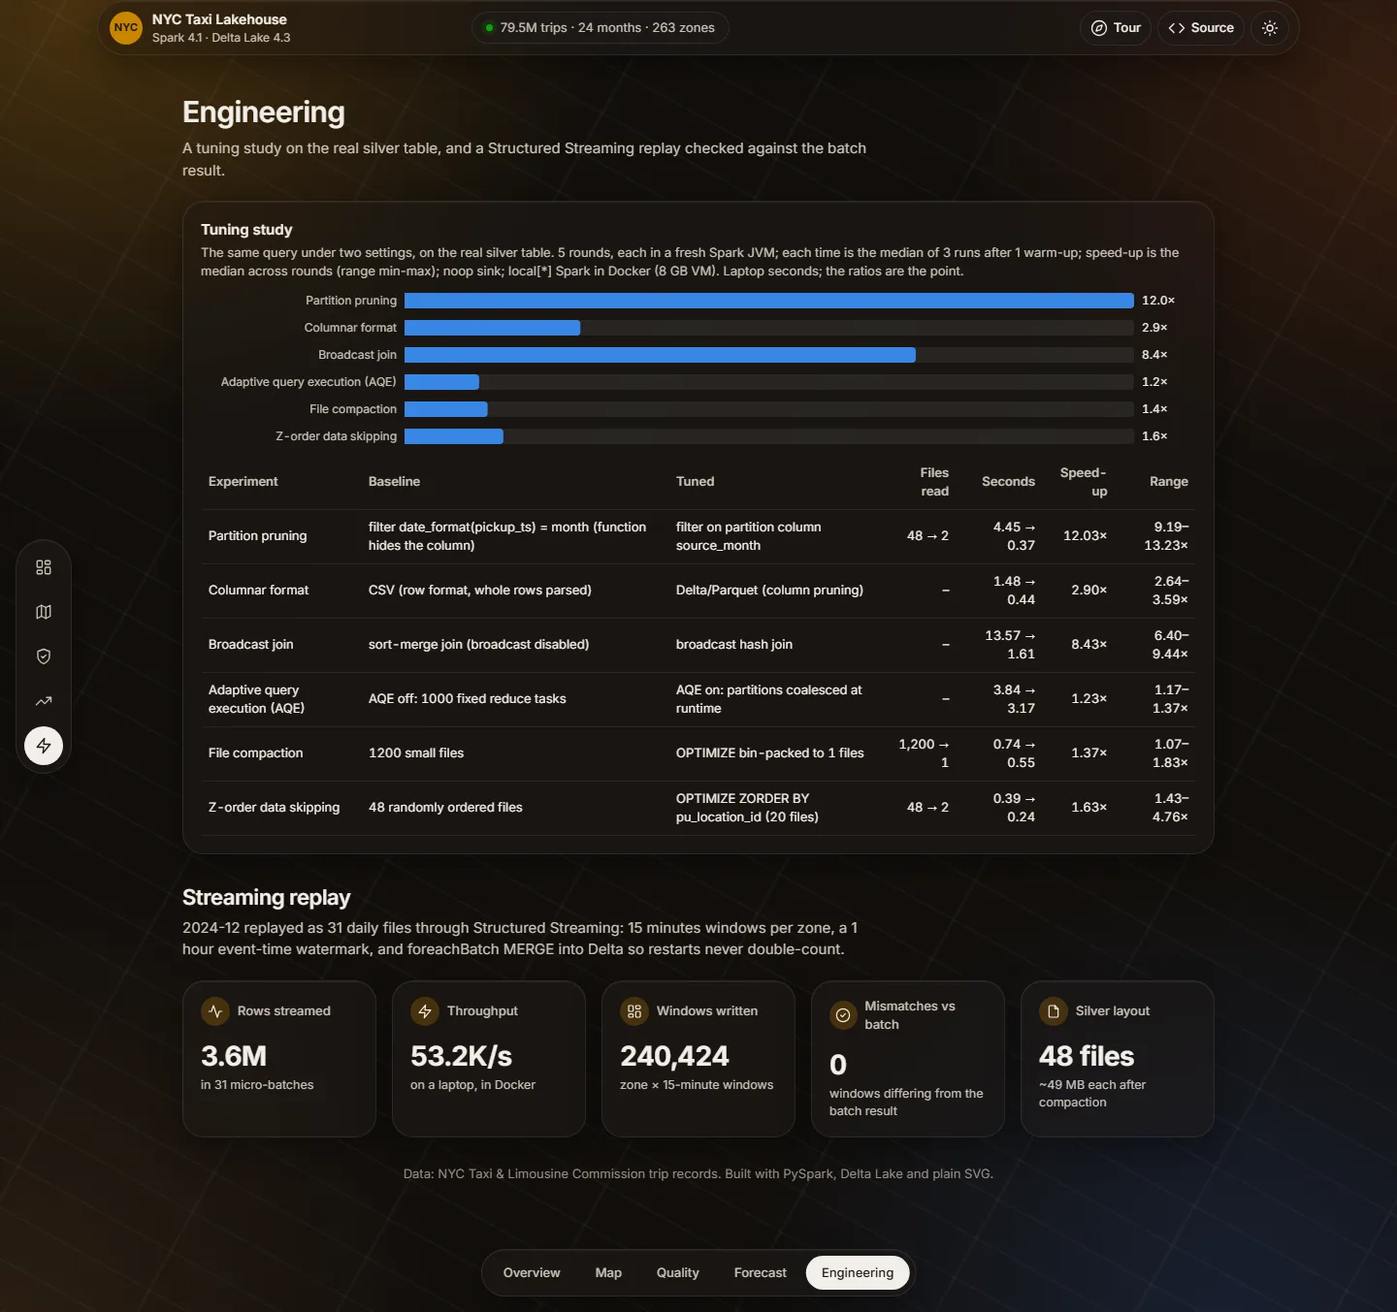
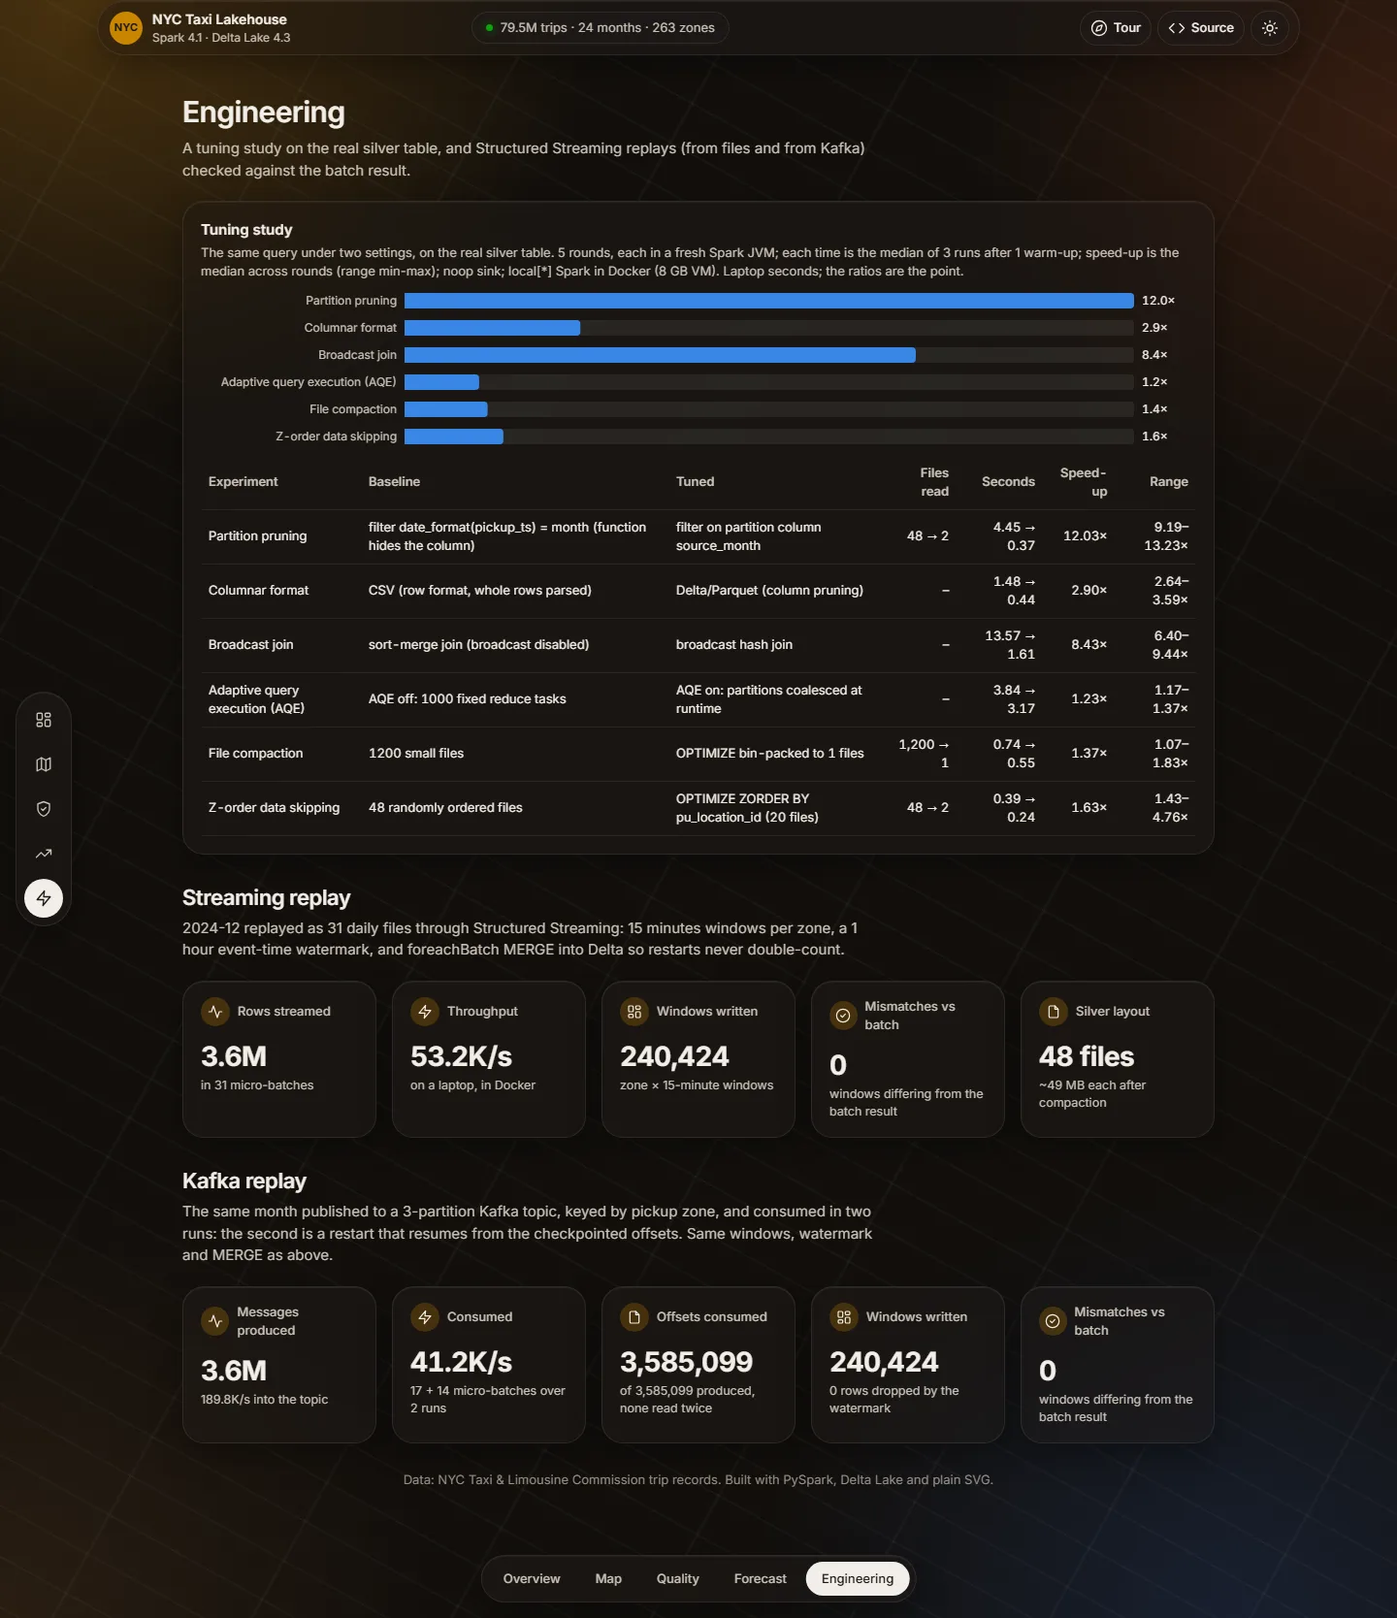
M11: Kafka replay with a consumer restart, checked against batch
A single-node Kafka broker (KRaft, opt-in compose profile) and a new
`kafka` stage: December 2024 is published to a 3-partition topic keyed
by pickup zone, then consumed by Structured Streaming in two runs, the
second a restart from checkpointed offsets. Same windows, watermark and
Delta MERGE as the file replay.

Measured (reports/kafka.json): 3,585,099 messages produced and
consumed, offsets consumed equal messages produced, 0 rows dropped by
the watermark, 240,424 windows with 0 mismatches against batch.

Tests run against a real broker (CI gets a Kafka service container).
README, dashboard and engineering screenshot updated.

diff --git a/site/index.html b/site/index.html
@@ -351,12 +351,16 @@ footer { color: var(--muted); font-size: 13px; margin-top: 28px; text-align: cen
 
   <section class="page" id="engineering" aria-labelledby="h-engineering" hidden>
     <div class="page-head">
-      <div><h1 id="h-engineering">Engineering</h1><p>A tuning study on the real silver table, and a Structured Streaming replay checked against the batch result.</p></div>
+      <div><h1 id="h-engineering">Engineering</h1><p>A tuning study on the real silver table, and Structured Streaming replays (from files and from Kafka) checked against the batch result.</p></div>
     </div>
     <div class="card glass" style="margin-bottom:16px"><h3>Tuning study</h3><p class="sub" id="bench-sub"></p>
       <div class="chart" id="bench-chart"></div><div class="scroll"><table id="bench-table"></table></div></div>
     <div class="page-head" style="margin-top:28px"><div><h1 style="font-size:22px">Streaming replay</h1><p id="stream-sub"></p></div></div>
     <div class="tiles" id="stream-tiles"></div>
+    <div id="kafka-block" hidden>
+      <div class="page-head" style="margin-top:28px"><div><h1 style="font-size:22px">Kafka replay</h1><p id="kafka-sub"></p></div></div>
+      <div class="tiles" id="kafka-tiles"></div>
+    </div>
   </section>
 
   <footer>Data: NYC Taxi &amp; Limousine Commission trip records. Built with PySpark, Delta Lake and plain SVG.</footer>
@@ -835,7 +839,7 @@ const PAGES = {
   },
 
   engineering() {
-    const { bench, stream, silver } = D;
+    const { bench, stream, silver, kafka } = D;
     if (bench) {
       const flat = bench.results.filter((r) => r.speedup_x < 1.2).map((r) => label(r.experiment));
       document.getElementById("bench-sub").textContent =
@@ -861,6 +865,20 @@ const PAGES = {
       tile(t, "overview", "Windows written", fmt.format(stream.windows_written), "zone × 15-minute windows");
       tile(t, "check", "Mismatches vs batch", String(stream.windows_mismatched_vs_batch), "windows differing from the batch result");
       if (silver && silver.silver_files) tile(t, "files", "Silver layout", fmt.format(silver.silver_files) + " files", `~${silver.silver_avg_file_mb} MB each after compaction`);
+    }
+    if (kafka) {
+      document.getElementById("kafka-block").hidden = false;
+      const [first, second] = kafka.consumer_runs;
+      document.getElementById("kafka-sub").textContent =
+        `The same month published to a ${kafka.topic_partitions}-partition Kafka topic, keyed by pickup zone, and consumed in two runs: ` +
+        `the second is a restart that resumes from the checkpointed offsets. Same windows, watermark and MERGE as above.`;
+      const t = fresh("kafka-tiles");
+      tile(t, "pulse", "Messages produced", compact.format(kafka.messages_produced), `${compact.format(kafka.produce_rows_per_second)}/s into the topic`);
+      tile(t, "engine", "Consumed", compact.format(kafka.rows_per_second) + "/s",
+        `${first.micro_batches} + ${second.micro_batches} micro-batches over 2 runs`);
+      tile(t, "files", "Offsets consumed", fmt.format(kafka.offsets_consumed), `of ${fmt.format(kafka.messages_produced)} produced, none read twice`);
+      tile(t, "overview", "Windows written", fmt.format(kafka.windows_written), `${fmt.format(kafka.rows_dropped_by_watermark)} rows dropped by the watermark`);
+      tile(t, "check", "Mismatches vs batch", String(kafka.windows_mismatched_vs_batch), "windows differing from the batch result");
     }
   },
 };
@@ -904,7 +922,7 @@ addEventListener("resize", () => { clearTimeout(rt); rt = setTimeout(() => { if 
 addEventListener("hashchange", () => { show(); scrollTo({ top: 0 }); });
 
 (async function () {
-  const names = { bronze: "bronze.json", silver: "silver.json", stream: "streaming.json", fc: "forecast.json", bench: "benchmark.json",
+  const names = { bronze: "bronze.json", silver: "silver.json", stream: "streaming.json", kafka: "kafka.json", fc: "forecast.json", bench: "benchmark.json",
     daily: "data/daily_kpis.json", zones: "data/zone_summary.json", profile: "data/hour_weekday_profile.json",
     fcDaily: "data/forecast_daily.json", shapes: "data/zone_shapes.json" };
   const vals = await Promise.all(Object.values(names).map(load));
@@ -983,6 +1001,12 @@ const TOUR = [
     "target": "#stream-tiles",
     "title": "Streaming, checked against batch",
     "text": "One month replayed as a live stream, then compared window by window with the batch answer."
+  },
+  {
+    "page": "engineering",
+    "target": "#kafka-tiles",
+    "title": "And again through Kafka",
+    "text": "The same month sent through a Kafka topic and consumed twice, with a restart in between. Every message is read exactly once and the result still matches batch."
   },
   {
     "target": "#theme",

diff --git a/src/lakehouse/kafka_stream.py b/src/lakehouse/kafka_stream.py
@@ -1,0 +1,127 @@
+"""Kafka replay: the streaming check again, with trips published to a Kafka topic instead of landing as files.
+
+A month of silver trips is produced to a fresh topic keyed by pickup zone, in event-time order, so every
+partition is time-ordered the way a real feed per zone would be. Structured Streaming consumes it with the
+same 15-minute windows, watermark and Delta MERGE as the file replay. The month goes in two halves with a
+consumer run after each: the second run is a restart that must pick up from the checkpointed offsets.
+The result is checked against the batch aggregate and the consumed offsets against what was produced.
+"""
+
+from __future__ import annotations
+
+import ast
+import os
+import shutil
+import time
+import uuid
+
+from pyspark.sql import DataFrame, SparkSession
+from pyspark.sql import functions as F
+
+from lakehouse import config
+from lakehouse.streaming import STREAM_COLUMNS, WATERMARK, WINDOW, _upsert, dropped_by_watermark, windowed_counts
+
+VALUE_SCHEMA = "pickup_ts TIMESTAMP, pu_location_id INT, total_amount DOUBLE"
+MAX_OFFSETS_PER_TRIGGER = 120_000  # about one day of December 2024 per micro-batch
+
+
+def bootstrap() -> str:
+    return os.getenv("KAFKA_BOOTSTRAP", "kafka:9092")
+
+
+def produce(trips: DataFrame, topic: str) -> int:
+    """Publish trips keyed by zone, oldest first. One writer task keeps every partition in event-time order."""
+    rows = trips.select(*STREAM_COLUMNS).repartition(1).sortWithinPartitions("pickup_ts")
+    rows.select(F.col("pu_location_id").cast("string").alias("key"),
+                F.to_json(F.struct(*STREAM_COLUMNS)).alias("value")) \
+        .write.format("kafka").option("kafka.bootstrap.servers", bootstrap()).option("topic", topic).save()
+    return rows.count()
+
+
+def consume(spark: SparkSession, topic: str, target: str, checkpoint: str,
+            max_offsets: int = MAX_OFFSETS_PER_TRIGGER) -> list[dict]:
+    """Process everything in the topic past the checkpointed offsets (availableNow), MERGEing into target."""
+    spark.conf.set("spark.sql.shuffle.partitions", "16")
+    trips = (
+        spark.readStream.format("kafka")
+        .option("kafka.bootstrap.servers", bootstrap())
+        .option("subscribe", topic)
+        .option("startingOffsets", "earliest")
+        .option("maxOffsetsPerTrigger", max_offsets)
+        .load()
+        .select(F.from_json(F.col("value").cast("string"), VALUE_SCHEMA).alias("t")).select("t.*")
+    )
+    query = (
+        windowed_counts(trips).writeStream.outputMode("update")
+        .foreachBatch(_upsert(target))
+        .option("checkpointLocation", checkpoint)
+        .trigger(availableNow=True)
+        .start()
+    )
+    query.awaitTermination()
+    return [p for p in query.recentProgress if p["numInputRows"] > 0]
+
+
+def end_offsets(progress: list[dict], topic: str) -> dict[str, int]:
+    """The last micro-batch's end offset per partition: how far the checkpoint has consumed."""
+    if not progress:
+        return {}
+    end = progress[-1]["sources"][0]["endOffset"]
+    # pyspark keeps it as str() of the parsed dict (single quotes), which literal_eval reads, as it does JSON
+    return (ast.literal_eval(end) if isinstance(end, str) else end)[topic]
+
+
+def replay(spark: SparkSession, month: str, split_day: int = 16, target: str | None = None,
+           max_offsets: int = MAX_OFFSETS_PER_TRIGGER) -> dict:
+    root = config.paths().root / "kafka"
+    checkpoint = str(root / "checkpoint")
+    shutil.rmtree(root, ignore_errors=True)
+    target = target or config.paths().gold("kafka_zone_15min")
+    topic = f"trips-{month}-{uuid.uuid4().hex[:8]}"  # a fresh topic, so a rerun never sees old messages
+
+    trips = spark.read.format("delta").load(config.paths().silver).where(F.col("source_month") == month)
+    windowed_counts(spark.createDataFrame([], trips.select(*STREAM_COLUMNS).schema)) \
+        .write.format("delta").mode("overwrite").option("overwriteSchema", "true").save(target)
+
+    runs, progress, produce_s = [], [], 0.0
+    halves = [F.dayofmonth("pickup_ts") < split_day, F.dayofmonth("pickup_ts") >= split_day]
+    for i, half in enumerate(halves, start=1):
+        started = time.perf_counter()
+        produced = produce(trips.where(half), topic)
+        produce_s += time.perf_counter() - started
+        batch = consume(spark, topic, target, checkpoint, max_offsets)
+        progress += batch
+        runs.append({"run": i, "messages_produced": produced, "micro_batches": len(batch),
+                     "rows_consumed": sum(p["numInputRows"] for p in batch)})
+
+    streamed = spark.read.format("delta").load(target)
+    expected = windowed_counts(trips.select(*STREAM_COLUMNS))
+    mismatched = (
+        expected.alias("e").join(streamed.alias("s"), ["window_start", "location_id"], "full_outer")
+        .where(~F.col("e.trips").eqNullSafe(F.col("s.trips")))
+        .count()
+    )
+    produced = sum(r["messages_produced"] for r in runs)
+    rows = sum(p["numInputRows"] for p in progress)
+    seconds = sum(p["durationMs"].get("triggerExecution", 0) for p in progress) / 1000
+    offsets = end_offsets(progress, topic)
+    return {
+        "month": month,
+        "topic_partitions": len(offsets),
+        "messages_produced": produced,
+        "produce_rows_per_second": round(produced / produce_s) if produce_s else None,
+        "consumer_runs": runs,
+        "offsets_consumed": sum(offsets.values()),
+        "rows_streamed": rows,
+        "rows_per_second": round(rows / seconds) if seconds else None,
+        "rows_dropped_by_watermark": dropped_by_watermark(progress),
+        "windows_written": streamed.count(),
+        "windows_mismatched_vs_batch": mismatched,
+        "window": WINDOW,
+        "watermark": WATERMARK,
+        "max_offsets_per_trigger": max_offsets,
+    }
+
+
+def run(spark: SparkSession) -> dict:
+    return replay(spark, os.getenv("LAKEHOUSE_STREAM_MONTH", config.months()[-1]))

diff --git a/tests/test_kafka.py b/tests/test_kafka.py
@@ -1,0 +1,69 @@
+import socket
+import uuid
+from datetime import datetime
+
+import pytest
+
+from lakehouse import config, kafka_stream
+from test_streaming import _seed
+
+
+def _broker_up() -> bool:
+    host, port = kafka_stream.bootstrap().rsplit(":", 1)
+    try:
+        socket.create_connection((host, int(port)), timeout=2).close()
+        return True
+    except OSError:
+        return False
+
+
+pytestmark = pytest.mark.skipif(not _broker_up(), reason="no Kafka broker at KAFKA_BOOTSTRAP")
+
+
+def test_replay_in_two_halves_matches_batch(spark, lake):
+    _seed(spark, lake)  # 1, 2 and 3 March: split on day 2 puts one day in the first half
+    report = kafka_stream.replay(spark, "2024-03", split_day=2)
+
+    assert [r["messages_produced"] for r in report["consumer_runs"]] == [3, 2]
+    assert [r["rows_consumed"] for r in report["consumer_runs"]] == [3, 2]  # the restart resumed, not re-read
+    assert report["offsets_consumed"] == report["messages_produced"] == 5
+    assert report["topic_partitions"] == 3
+    assert report["windows_mismatched_vs_batch"] == 0
+    assert report["rows_dropped_by_watermark"] == 0
+    rows = {(str(r.window_start), r.location_id): r.trips
+            for r in spark.read.format("delta").load(config.paths().gold("kafka_zone_15min")).collect()}
+    assert rows[("2024-03-01 08:00:00", 161)] == 2
+    assert rows[("2024-03-02 09:00:00", 132)] == 1
+
+
+def test_late_message_behind_the_watermark_is_dropped(spark, lake):
+    _seed(spark, lake)
+    trips = spark.read.format("delta").load(config.paths().silver)
+    topic, target = f"test-{uuid.uuid4().hex[:8]}", str(lake / "kafka_target")
+    checkpoint = str(lake / "kafka_checkpoint")
+    kafka_stream.windowed_counts(trips.select(*kafka_stream.STREAM_COLUMNS).limit(0)).write.format("delta").save(target)
+    kafka_stream.produce(trips, topic)
+    kafka_stream.consume(spark, topic, target, checkpoint)
+
+    # a straggler for 1 March arrives after the stream has moved past 3 March
+    late = spark.createDataFrame([(datetime(2024, 3, 1, 8, 1), 161, 20.8)], kafka_stream.VALUE_SCHEMA)
+    kafka_stream.produce(late, topic)
+    progress = kafka_stream.consume(spark, topic, target, checkpoint)
+
+    assert kafka_stream.dropped_by_watermark(progress) == 1
+    window = spark.read.format("delta").load(target).where(
+        "location_id = 161 AND window_start = '2024-03-01 08:00:00'").first()
+    assert window.trips == 2  # unchanged
+
+
+def test_rerun_with_no_new_messages_reads_nothing(spark, lake):
+    _seed(spark, lake)
+    trips = spark.read.format("delta").load(config.paths().silver)
+    topic, target = f"test-{uuid.uuid4().hex[:8]}", str(lake / "kafka_target")
+    checkpoint = str(lake / "kafka_checkpoint")
+    kafka_stream.windowed_counts(trips.select(*kafka_stream.STREAM_COLUMNS).limit(0)).write.format("delta").save(target)
+    kafka_stream.produce(trips, topic)
+    kafka_stream.consume(spark, topic, target, checkpoint)
+
+    assert kafka_stream.consume(spark, topic, target, checkpoint) == []
+    assert sum(r.trips for r in spark.read.format("delta").load(target).collect()) == 5

diff --git a/src/lakehouse/__main__.py b/src/lakehouse/__main__.py
@@ -9,6 +9,8 @@ import time
 from lakehouse import config
 
 STAGES = ["download", "bronze", "silver", "gold", "zonemap", "streaming", "forecast", "benchmark", "vacuum"]
+# need a running broker, so not part of "all": docker compose --profile kafka up -d kafka
+OPTIONAL_STAGES = {"kafka": "kafka_stream"}
 
 
 def _write_report(name: str, payload: dict) -> None:
@@ -18,7 +20,7 @@ def _write_report(name: str, payload: dict) -> None:
 
 def main() -> None:
     parser = argparse.ArgumentParser(prog="lakehouse")
-    parser.add_argument("stages", nargs="+", choices=STAGES + ["all"])
+    parser.add_argument("stages", nargs="+", choices=STAGES + list(OPTIONAL_STAGES) + ["all"])
     args = parser.parse_args()
     stages = STAGES if "all" in args.stages else args.stages
 
@@ -32,7 +34,7 @@ def main() -> None:
             if spark is None:
                 from lakehouse.spark import get_spark
                 spark = get_spark()
-            module = __import__(f"lakehouse.{stage}", fromlist=["run"])
+            module = __import__(f"lakehouse.{OPTIONAL_STAGES.get(stage, stage)}", fromlist=["run"])
             result = module.run(spark)
         result["seconds"] = round(time.perf_counter() - started, 1)
         _write_report(stage, result)

diff --git a/src/lakehouse/spark.py b/src/lakehouse/spark.py
@@ -7,6 +7,9 @@ import os
 from delta import configure_spark_with_delta_pip
 from pyspark.sql import SparkSession
 
+# Structured Streaming's Kafka source and sink, matched to the pyspark version (Scala 2.13 build)
+KAFKA_PACKAGE = "org.apache.spark:spark-sql-kafka-0-10_2.13:4.1.1"
+
 
 def get_spark(app_name: str = "nyc-taxi-lakehouse", conf: dict[str, str] | None = None) -> SparkSession:
     builder = (
@@ -21,6 +24,6 @@ def get_spark(app_name: str = "nyc-taxi-lakehouse", conf: dict[str, str] | None 
     )
     for key, value in (conf or {}).items():
         builder = builder.config(key, value)
-    spark = configure_spark_with_delta_pip(builder).getOrCreate()
+    spark = configure_spark_with_delta_pip(builder, extra_packages=[KAFKA_PACKAGE]).getOrCreate()
     spark.sparkContext.setLogLevel("WARN")
     return spark

diff --git a/README.md b/README.md
@@ -4,8 +4,8 @@
 
 An Apache Spark 4.1 + Delta Lake pipeline over **79.5 million** NYC yellow-taxi trips (all of 2023–2024).
 It runs medallion layers (bronze, silver, gold) with data-quality rules and a quarantine table,
-a Structured Streaming replay, a Spark MLlib demand forecast and a measured tuning study.
-Everything runs in one Docker container on a laptop.
+a Structured Streaming replay (from files and from Kafka), a Spark MLlib demand forecast and a measured tuning study.
+Everything runs in Docker on a laptop: one Spark container, plus a Kafka broker for the Kafka replay.
 
 **Live dashboard:** https://neilss170.github.io/nyc-taxi-lakehouse/ (five tabs: overview, a choropleth of all 263 taxi
 zones, data-quality breakdown, forecast vs actuals, and the tuning study with the streaming check; plain HTML + SVG, no framework)
@@ -19,7 +19,7 @@ zones, data-quality breakdown, forecast vs actuals, and the tuning study with th
   </tr>
   <tr>
     <td width="50%"><img src="docs/screenshots/forecast-light.webp" alt="Forecast page: GBT vs baselines on held-out Q4 2024 and feature importance"><br><sub>Forecast: GBT vs naive baselines, held-out Q4 2024</sub></td>
-    <td width="50%"><img src="docs/screenshots/engineering-dark.webp" alt="Engineering page: tuning study speed-ups and streaming replay checks, dark theme"><br><sub>Engineering: tuning study and streaming replay</sub></td>
+    <td width="50%"><img src="docs/screenshots/engineering-dark.webp" alt="Engineering page: tuning study speed-ups, file and Kafka streaming replay checks, dark theme"><br><sub>Engineering: tuning study, file and Kafka streaming replays</sub></td>
   </tr>
 </table>
 
@@ -39,6 +39,7 @@ Every number below comes from a file in [`reports/`](reports), written by the pi
 | Silver | Dedupes, applies 15 profiled rules (10 errors, 5 warnings), quarantines failures with reasons | 78,245,114 rows pass (98.45%); 1,234,826 quarantined; 6 duplicates; every row accounted for |
 | Gold | Six business tables: daily KPIs, zone × hour demand, zones, borough flows, hour × weekday, airports | All reconcile to the silver total; a gap in the published source data is detected automatically |
 | Streaming | Replays Dec 2024 day by day: 15-min zone windows, 1 h watermark, `foreachBatch` MERGE | 3,585,099 rows in 31 micro-batches (~53k rows/s); all 240,424 windows match the batch result |
+| Kafka | Publishes Dec 2024 to a 3-partition topic keyed by zone; Spark consumes it in two runs, the second a restart from checkpointed offsets | 3,585,099 messages, each consumed once across the restart (~41k rows/s); 0 dropped by the watermark; all 240,424 windows match the batch result |
 | Forecast | Day-ahead hourly pickups for the 88 busiest zones (98.8% of trips), GBT vs naive baselines | Held-out Q4 2024 WAPE **19.7%** vs 26.2% for the best baseline (**24.8% lower error**) |
 | Tuning | Six before/after experiments on the real silver table | Median of 5 rounds: partition pruning **12×**, broadcast join **8.4×**, Parquet vs CSV **2.9×** |
 
@@ -119,6 +120,9 @@ docker compose build
 docker compose run --rm spark python -m lakehouse all        # download -> bronze -> ... -> benchmark
 docker compose run --rm spark python -m pytest               # tests
 python -m http.server -d site 8000                           # dashboard (after: cp -r reports site/reports)
+
+docker compose --profile kafka up -d --wait kafka            # single-node Kafka (KRaft), only for the kafka stage
+docker compose run --rm spark python -m lakehouse kafka      # also lets the Kafka tests run instead of skipping
 ```
 
 You can run stages one at a time (`python -m lakehouse silver gold`). Each stage overwrites only the
@@ -136,6 +140,7 @@ src/lakehouse/
   gold.py        business tables, source-gap flag, dashboard extracts
   zonemap.py     TLC zone shapefile -> simplified SVG paths for the dashboard map
   streaming.py   file-stream replay, watermark, foreachBatch MERGE, batch parity check
+  kafka_stream.py Kafka producer + consumer replay with a restart, offset and batch parity checks
   forecast.py    dense grid, leakage-safe features, GBT vs baselines
   benchmark.py   before/after timing harness, Delta log file-stats reader
   vacuum.py      removes data files no retained Delta version references
@@ -147,8 +152,9 @@ site/            static dashboard (GitHub Pages)
 ## Limits
 
 - Single-node `local[*]` Spark in an 8 GB Docker VM. The timings are laptop numbers; the ratios are what matter.
-- Streaming replays files from disk rather than reading from Kafka. The semantics (watermark, idempotent MERGE sink,
-  checkpointed restart) are the same, and the tests cover them.
+- Kafka is a single broker with replication factor 1, and the producer is a Spark batch write rather than a live feed.
+  Ordering holds per partition only, so the consumer caps each micro-batch (120,000 offsets) to keep partitions close in
+  event time; the report counts rows dropped by the watermark in case they drift apart (0 in this run).
 - The forecast has no weather or event data, which is the obvious next feature set.
 
 Data: [NYC Taxi & Limousine Commission trip records](https://www.nyc.gov/site/tlc/about/tlc-trip-record-data.page).
